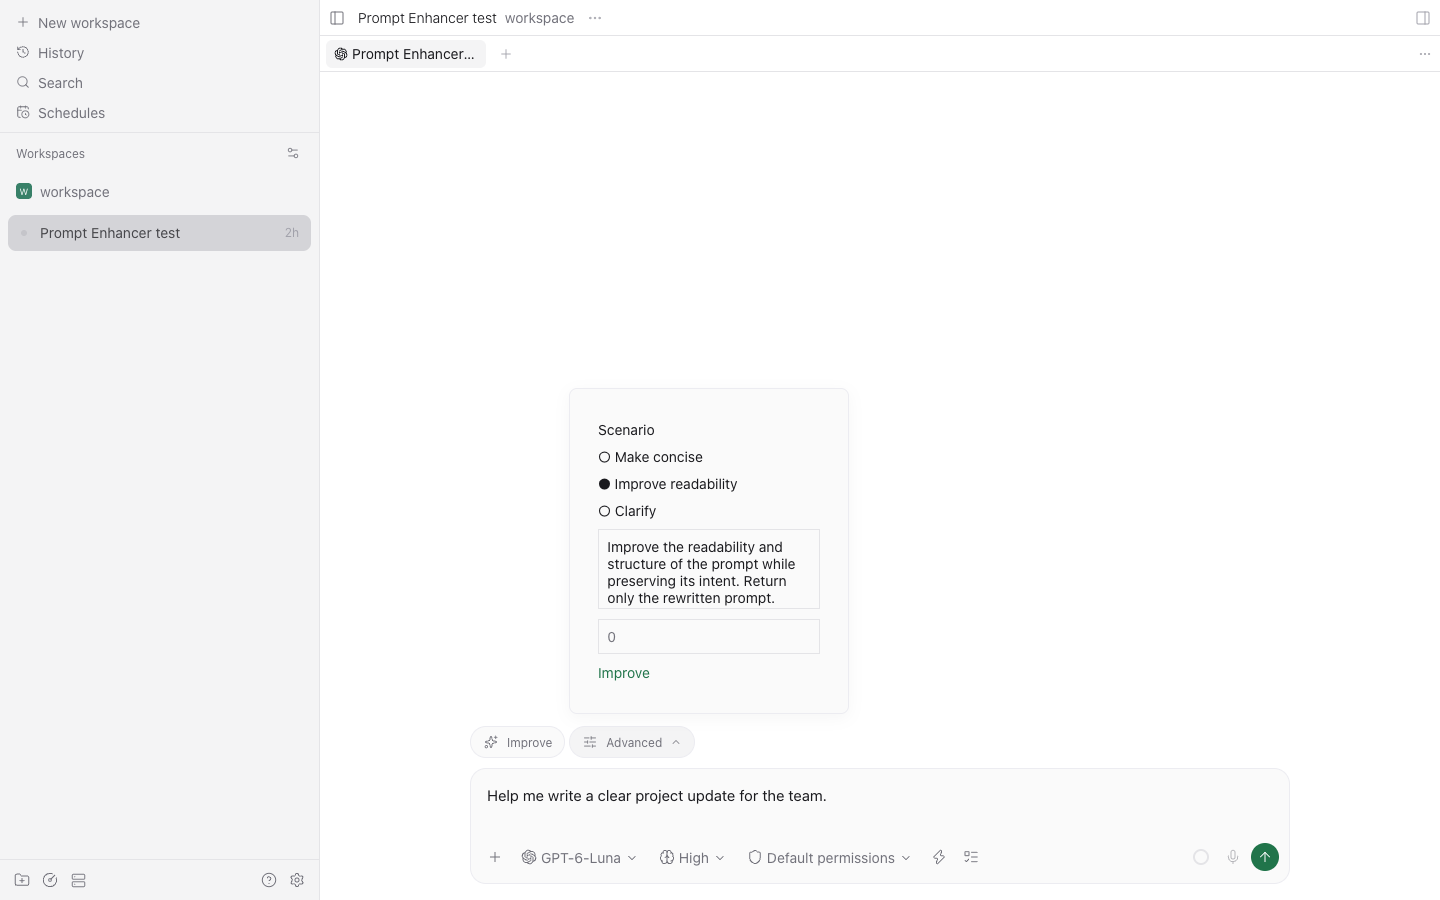
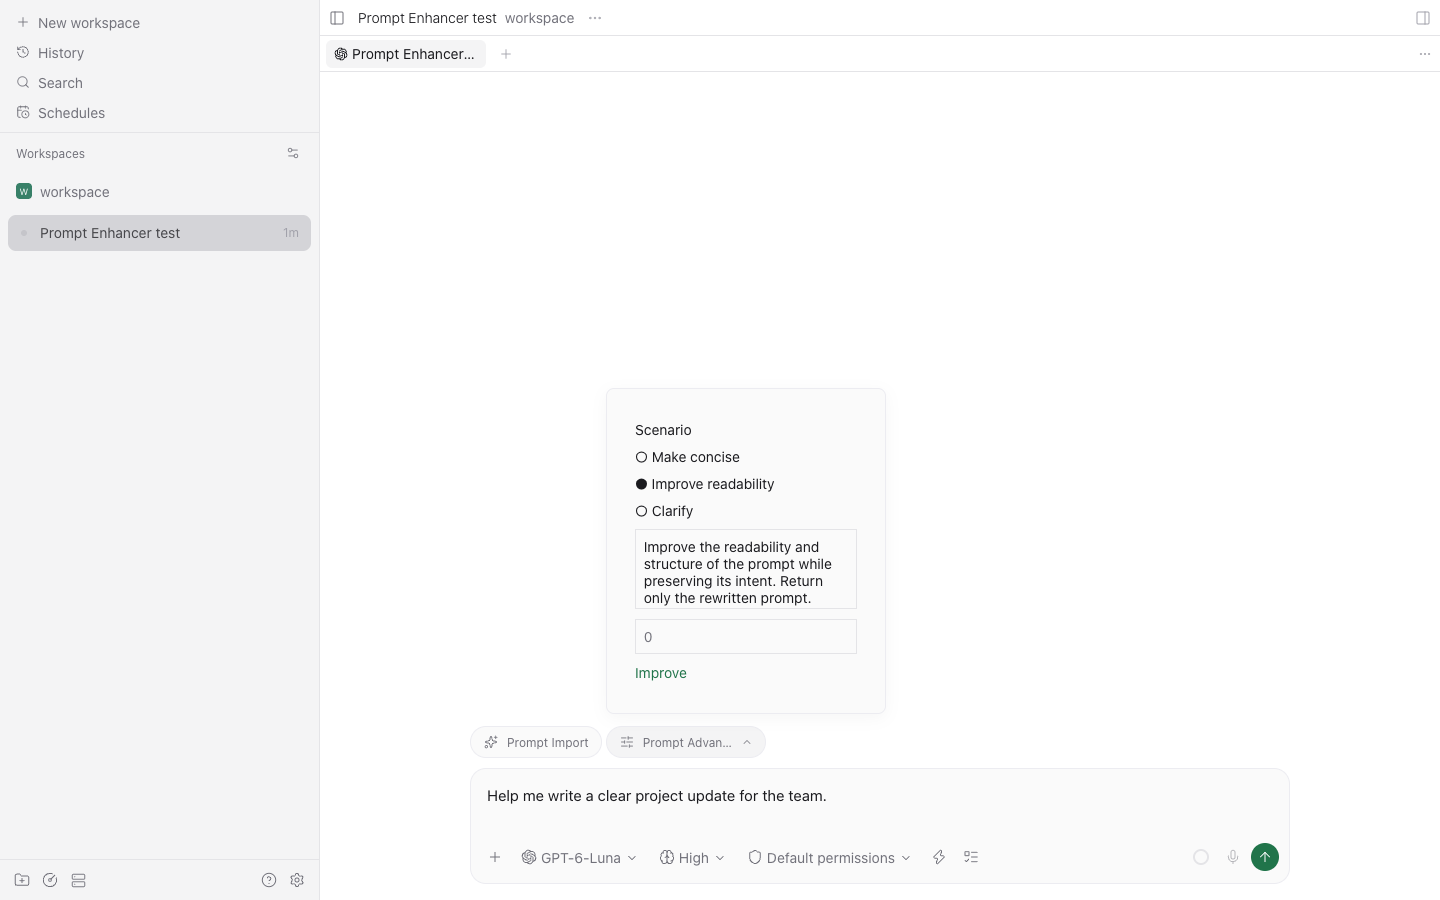
Allow composer button names to be configured

Changed region(s): [[0.4062, 0.4667, 0.5938, 0.6844], [0.3438, 0.8089, 0.5, 0.84], [0.4375, 0.7467, 0.4688, 0.7778]]

diff --git a/client/actions.tsx b/client/actions.tsx
@@ -4,34 +4,37 @@ import { useSettings, useSubscription, type PluginButtonContentProps, type Plugi
 import { TextInput } from "@getpaseo/plugin/client/ui";
 import { settingsRpc } from "@getpaseo/plugin";
 import { enhancementStatus, startEnhancement } from "../shared/enhance";
-import { builtInScenarios, preferences, settingsSchema, visibilityChanges } from "../shared/settings";
+import { builtInScenarios, preferences, settingsSchema, visibilityChanges, type Presentation } from "../shared/settings";
 import { applyImprovement } from "./draft";
 import { createVisibilityState } from "./visibility";
 
 interface AgentActions { quick: PluginButtonRegistration; advanced: PluginButtonRegistration; undo: PluginButtonRegistration }
 
-export function registerActions(client: PluginClientContext): { cleanup(): void; setAdvancedVisibility(visible: boolean): void } {
+export function registerActions(client: PluginClientContext): { cleanup(): void; setPresentation(value: Presentation): void } {
   const registrations = new Map<string, AgentActions>();
   const busy = new Set<string>();
   const previous = new Map<string, string>();
   const lifetime = new AbortController();
-  let showAdvanced = false;
+  let presentation: Presentation = { showAdvanced: false, quickLabel: "Prompt Import", advancedLabel: "Prompt Advance" };
 
-  const visibility = createVisibilityState((visible) => {
-    showAdvanced = visible;
-    for (const registration of registrations.values()) registration.advanced.update({ visible });
+  const visibility = createVisibilityState<Presentation>((value) => {
+    presentation = value;
+    for (const registration of registrations.values()) {
+      registration.quick.update({ title: value.quickLabel, label: value.quickLabel });
+      registration.advanced.update({ title: value.advancedLabel, label: value.advancedLabel, visible: value.showAdvanced });
+    }
   });
-  const setAdvancedVisibility = visibility.update;
+  const setPresentation = visibility.update;
 
   function SettingsBridge() {
-    useSubscription(visibilityChanges, {}, ({ showAdvanced: visible }) => setAdvancedVisibility(visible));
+    useSubscription(visibilityChanges, {}, setPresentation);
     return null;
   }
   const removeSettingsBridge = client.addComposerItem({ id: "settings-bridge", Component: SettingsBridge });
   void visibility.loadInitial(async () => {
     const result = await client.rpc(settingsRpc(preferences.id).read, {});
     if (result.status !== "ready") throw new Error(result.error);
-    return settingsSchema.parse(result.values).showAdvanced;
+    return settingsSchema.parse(result.values);
   }).catch((error: unknown) => { if (!lifetime.signal.aborted) console.error("Prompt Enhancer settings unavailable", error); });
 
   async function run(workspaceId: string, agentId: string, instruction: string, historyLimit: number, includeTools: boolean): Promise<void> {
@@ -110,8 +113,8 @@ export function registerActions(client: PluginClientContext): { cleanup(): void;
   function register(agent: { id: string; workspaceId?: string | null }): void {
     if (!agent.workspaceId || lifetime.signal.aborted || registrations.has(agent.id)) return;
     const { id: agentId, workspaceId } = agent;
-    const quickButton = client.addComposerPill({ id: "quick", agentId, workspaceId, button: { title: "Improve prompt", label: "Improve", icon: "Sparkles", behavior: { kind: "action", onPress: () => quick(workspaceId, agentId) } } });
-    const advanced = client.addComposerPill({ id: "advanced", agentId, workspaceId, button: { title: "Advanced prompt improvement", label: "Advanced", icon: "SlidersHorizontal", visible: showAdvanced, behavior: { kind: "popover", Content: Advanced } } });
+    const quickButton = client.addComposerPill({ id: "quick", agentId, workspaceId, button: { title: presentation.quickLabel, label: presentation.quickLabel, icon: "Sparkles", behavior: { kind: "action", onPress: () => quick(workspaceId, agentId) } } });
+    const advanced = client.addComposerPill({ id: "advanced", agentId, workspaceId, button: { title: presentation.advancedLabel, label: presentation.advancedLabel, icon: "SlidersHorizontal", visible: presentation.showAdvanced, behavior: { kind: "popover", Content: Advanced } } });
     const undo = client.addComposerPill({ id: "undo", agentId, workspaceId, button: { title: "Undo prompt improvement", label: "Undo", icon: "Undo2", visible: false, behavior: { kind: "action", onPress() { const current = client.composers({ agentId })[0]; const text = previous.get(agentId); if (current && text !== undefined) { current.setPrompt(text); previous.delete(agentId); registrations.get(agentId)?.undo.update({ visible: false }); } } } } });
     registrations.set(agentId, { quick: quickButton, advanced, undo });
   }
@@ -122,7 +125,7 @@ export function registerActions(client: PluginClientContext): { cleanup(): void;
     });
   }).catch((error: unknown) => { if (!lifetime.signal.aborted) console.error("Prompt Enhancer agent observation failed", error); });
   return {
-    setAdvancedVisibility,
+    setPresentation,
     cleanup() { lifetime.abort(); visibility.close(); removeSettingsBridge(); for (const id of registrations.keys()) remove(id); },
   };
 }

diff --git a/client/settings.tsx b/client/settings.tsx
@@ -2,9 +2,9 @@ import { useEffect, useState } from "react";
 import { Text, TextInput, View } from "react-native";
 import { usePaseo, useSettings, type PluginSurfaceProps } from "@getpaseo/plugin/client";
 import { SettingsAction, SettingsCard, SettingsInput, SettingsSection, SettingsSelect, SettingsSwitch } from "@getpaseo/plugin/client/ui";
-import { builtInScenarios, preferences, type Preferences } from "../shared/settings";
+import { builtInScenarios, preferences, settingsSchema, type Preferences, type Presentation } from "../shared/settings";
 
-export function Settings({ theme, onSaved }: PluginSurfaceProps & { onSaved(showAdvanced: boolean): void }) {
+export function Settings({ theme, onSaved }: PluginSurfaceProps & { onSaved(value: Presentation): void }) {
   const settings = useSettings(preferences);
   const paseo = usePaseo();
   const [draft, setDraft] = useState<Preferences | null>(null);
@@ -26,7 +26,7 @@ export function Settings({ theme, onSaved }: PluginSurfaceProps & { onSaved(show
   const scenarios = [...builtInScenarios, ...draft.customScenarios];
   const models = catalog.find((entry) => entry.provider === draft.provider)?.models ?? [];
   const save = async () => {
-    if (await settings.save(draft, revision)) { onSaved(draft.showAdvanced); setDraft(null); setError(""); }
+    if (await settings.save(draft, revision)) { onSaved(settingsSchema.parse(draft)); setDraft(null); setError(""); }
     else setError("Could not save settings. Reload and review your changes if another client changed them.");
   };
   return <View style={{ gap: 16 }}>
@@ -37,6 +37,10 @@ export function Settings({ theme, onSaved }: PluginSurfaceProps & { onSaved(show
       <SettingsInput label="History limit in characters" initialValue={String(draft.historyLimit)} onChangeText={(value) => update({ historyLimit: value.trim() === "" ? 0 : Number(value) })} />
       <SettingsSwitch label="Include tool calls and results" value={draft.includeTools} onValueChange={(includeTools) => update({ includeTools })} />
       <SettingsSwitch label="Show advanced action" value={draft.showAdvanced} onValueChange={(showAdvanced) => update({ showAdvanced })} />
+    </SettingsCard></SettingsSection>
+    <SettingsSection title="Composer buttons"><SettingsCard>
+      <SettingsInput label="Quick button name" initialValue={draft.quickLabel} onChangeText={(quickLabel) => update({ quickLabel })} />
+      <SettingsInput label="Advanced button name" initialValue={draft.advancedLabel} onChangeText={(advancedLabel) => update({ advancedLabel })} />
     </SettingsCard></SettingsSection>
     <SettingsSection title="Custom scenarios"><SettingsCard>
       {draft.customScenarios.map((scenario, index) => <View key={scenario.id} style={{ gap: 8, padding: 12 }}>

diff --git a/index.server.ts b/index.server.ts
@@ -2,7 +2,7 @@ import type { PluginServerContext } from "@getpaseo/plugin/server";
 import { randomUUID } from "node:crypto";
 import type { z } from "zod";
 import { startEnhancement, enhancementStatus } from "./shared/enhance";
-import { preferences, visibilityChanges } from "./shared/settings";
+import { preferences, visibilityChanges, type Presentation } from "./shared/settings";
 import { runEnhancement } from "./server/enhance";
 
 export default function contribute(server: PluginServerContext): () => void {
@@ -13,17 +13,17 @@ export default function contribute(server: PluginServerContext): () => void {
   let active = true;
   server.handle(visibilityChanges, (_input, { push, signal }) => {
     let receivedChange = false;
-    const send = (visible: boolean) => {
-      void push({ showAdvanced: visible }).catch((error: unknown) => {
+    const send = ({ showAdvanced, quickLabel, advancedLabel }: Presentation) => {
+      void push({ showAdvanced, quickLabel, advancedLabel }).catch((error: unknown) => {
         if (!signal.aborted) console.error("Prompt Enhancer visibility update failed", error);
       });
     };
     const unsubscribe = settings.subscribe((state) => {
-      if (state.status === "ready") { receivedChange = true; send(state.values.showAdvanced); }
+      if (state.status === "ready") { receivedChange = true; send(state.values); }
     });
     if (signal.aborted) { unsubscribe(); return; }
     signal.addEventListener("abort", unsubscribe, { once: true });
-    void settings.read().then((state) => { if (!signal.aborted && !receivedChange && state.status === "ready") send(state.values.showAdvanced); }).catch((error: unknown) => {
+    void settings.read().then((state) => { if (!signal.aborted && !receivedChange && state.status === "ready") send(state.values); }).catch((error: unknown) => {
       if (!signal.aborted) console.error("Prompt Enhancer settings read failed", error);
     });
   });

diff --git a/tests/server-lifecycle.test.ts b/tests/server-lifecycle.test.ts
@@ -45,11 +45,11 @@ test("visibility subscribers receive the saved value and changes, then unsubscri
   const events: unknown[] = [];
   handler({}, { signal: controller.signal, push: async (event: unknown) => { events.push(event); } });
   await new Promise<void>((resolve) => setImmediate(resolve));
-  assert.deepEqual(events, [{ showAdvanced: false }]);
+  assert.deepEqual(events, [{ showAdvanced: false, quickLabel: "Prompt Import", advancedLabel: "Prompt Advance" }]);
   assert.ok(listener);
-  listener({ status: "ready", values: settingsSchema.parse({ showAdvanced: true }) });
+  listener({ status: "ready", values: settingsSchema.parse({ showAdvanced: true, quickLabel: "Rewrite", advancedLabel: "Options" }) });
   await new Promise<void>((resolve) => setImmediate(resolve));
-  assert.deepEqual(events, [{ showAdvanced: false }, { showAdvanced: true }]);
+  assert.deepEqual(events, [{ showAdvanced: false, quickLabel: "Prompt Import", advancedLabel: "Prompt Advance" }, { showAdvanced: true, quickLabel: "Rewrite", advancedLabel: "Options" }]);
   controller.abort();
   assert.equal(released, true);
   cleanup();
@@ -75,7 +75,7 @@ test("an older initial settings read does not overwrite a newer notification", a
   listener({ status: "ready", values: settingsSchema.parse({ showAdvanced: true }) });
   finishRead({ status: "ready", values: settingsSchema.parse({ showAdvanced: false }) });
   await new Promise<void>((resolve) => setImmediate(resolve));
-  assert.deepEqual(events, [{ showAdvanced: true }]);
+  assert.deepEqual(events, [{ showAdvanced: true, quickLabel: "Prompt Import", advancedLabel: "Prompt Advance" }]);
   controller.abort();
   cleanup();
 });

diff --git a/tests/settings.test.ts b/tests/settings.test.ts
@@ -7,11 +7,16 @@ test("settings default to no history and a built-in scenario", () => {
   assert.equal(settings.historyLimit, 0);
   assert.equal(settings.defaultScenario, "readability");
   assert.equal(settings.includeTools, false);
+  assert.equal(settings.quickLabel, "Prompt Import");
+  assert.equal(settings.advancedLabel, "Prompt Advance");
 });
 
 test("validates limits, scenario identity and custom instructions", () => {
   assert.equal(settingsSchema.safeParse({ historyLimit: -1 }).success, false);
   assert.equal(settingsSchema.safeParse({ historyLimit: 1.5 }).success, false);
+  assert.equal(settingsSchema.safeParse({ quickLabel: "  " }).success, false);
+  assert.equal(settingsSchema.safeParse({ advancedLabel: "" }).success, false);
+  assert.equal(settingsSchema.parse({ quickLabel: "  Rewrite  " }).quickLabel, "Rewrite");
   assert.equal(settingsSchema.safeParse({ defaultScenario: "missing" }).success, false);
   const custom = { id: "custom-example", name: "Example", instruction: "Rewrite." };
   const parsed = settingsSchema.parse({ customScenarios: [custom], defaultScenario: custom.id });

diff --git a/tests/visibility.test.ts b/tests/visibility.test.ts
@@ -6,7 +6,7 @@ test("a late initial read cannot override a newer visibility change", async () =
   let finish: ((value: boolean) => void) | undefined;
   const read = new Promise<boolean>((resolve) => { finish = resolve; });
   const values: boolean[] = [];
-  const state = createVisibilityState((visible) => values.push(visible));
+  const state = createVisibilityState<boolean>((visible) => values.push(visible));
   const loading = state.loadInitial(() => read);
   state.update(false);
   assert.ok(finish);
@@ -19,7 +19,7 @@ test("a late initial read has no effect after cleanup", async () => {
   let finish: ((value: boolean) => void) | undefined;
   const read = new Promise<boolean>((resolve) => { finish = resolve; });
   const values: boolean[] = [];
-  const state = createVisibilityState((visible) => values.push(visible));
+  const state = createVisibilityState<boolean>((visible) => values.push(visible));
   const loading = state.loadInitial(() => read);
   state.close();
   assert.ok(finish);

diff --git a/shared/settings.ts b/shared/settings.ts
@@ -21,6 +21,8 @@ export const settingsSchema = z.object({
   historyLimit: z.number().int().nonnegative().safe().default(0),
   includeTools: z.boolean().default(false),
   showAdvanced: z.boolean().default(true),
+  quickLabel: z.string().trim().min(1).default("Prompt Import"),
+  advancedLabel: z.string().trim().min(1).default("Prompt Advance"),
 }).superRefine((value, context) => {
   const customIds = value.customScenarios.map((scenario) => scenario.id);
   if (new Set(customIds).size !== customIds.length) {
@@ -41,7 +43,8 @@ export const preferences = defineSettings({
 export const visibilityChanges = defineSubscription({
   name: "preferences.visibility",
   input: z.object({}),
-  event: z.object({ showAdvanced: z.boolean() }),
+  event: z.object({ showAdvanced: z.boolean(), quickLabel: z.string(), advancedLabel: z.string() }),
 });
 
 export type Preferences = z.output<typeof settingsSchema>;
+export type Presentation = Pick<Preferences, "showAdvanced" | "quickLabel" | "advancedLabel">;

diff --git a/client/visibility.ts b/client/visibility.ts
@@ -1,15 +1,15 @@
-export function createVisibilityState(onChange: (visible: boolean) => void) {
+export function createVisibilityState<T>(onChange: (value: T) => void) {
   let version = 0;
   let active = true;
-  function update(visible: boolean): void {
+  function update(value: T): void {
     if (!active) return;
     version += 1;
-    onChange(visible);
+    onChange(value);
   }
-  async function loadInitial(read: () => Promise<boolean>): Promise<void> {
+  async function loadInitial(read: () => Promise<T>): Promise<void> {
     const startedAt = version;
-    const visible = await read();
-    if (active && version === startedAt) update(visible);
+    const value = await read();
+    if (active && version === startedAt) update(value);
   }
   return { update, loadInitial, close() { active = false; } };
 }

diff --git a/index.client.tsx b/index.client.tsx
@@ -4,7 +4,7 @@ import { Settings } from "./client/settings";
 
 export default function contribute(client: PluginClientContext) {
   const actions = registerActions(client);
-  const SettingsScreen = (props: PluginSurfaceProps) => <Settings {...props} onSaved={actions.setAdvancedVisibility} />;
+  const SettingsScreen = (props: PluginSurfaceProps) => <Settings {...props} onSaved={actions.setPresentation} />;
   const removeSettings = client.addSettingsScreen({ id: "settings", title: "Prompt Enhancer", icon: "Sparkles", Component: SettingsScreen });
   return () => { actions.cleanup(); removeSettings(); };
 }

diff --git a/OVERVIEW.md b/OVERVIEW.md
@@ -2,7 +2,7 @@
 
 Prompt Enhancer rewrites a draft in an existing Paseo agent's composer. Quick improvement uses your saved defaults. Advanced lets you choose a scenario, edit its instruction and set a history limit for one request. You can undo the last replacement; the plugin does not send the rewritten draft to the conversation.
 
-Choose a provider and model configured on the selected host in the plugin settings. The built-in scenarios make text concise, improve readability or clarify it. You can add custom scenarios, choose a default and hide the Advanced action.
+Choose a provider and model configured on the selected host in the plugin settings. The built-in scenarios make text concise, improve readability or clarify it. You can add custom scenarios, choose a default, rename the two composer buttons and hide the Advanced action. Their default names are “Prompt Import” and “Prompt Advance”.
 
 The history limit is measured in characters and defaults to zero. You can include recent user and assistant messages and optionally tool calls and results. The selected provider receives the draft, instruction and selected history. The plugin creates a background agent using that provider's normal permissions; it does not automatically approve permission requests. Agent and provider history may retain this content after the helper is archived.
 

diff --git a/README.md b/README.md
@@ -2,7 +2,7 @@
 
 Prompt Enhancer rewrites a draft in an existing Paseo agent's composer using a provider and model configured on the selected host. Quick uses saved settings; Advanced lets you select a scenario, edit its instruction and override the history character limit. Undo restores the text present immediately before replacement. The rewritten draft is not sent automatically.
 
-In the plugin settings, select a provider and model, a default scenario and optionally custom scenarios. The history limit defaults to zero; a positive limit includes recent conversation text and can optionally include tool calls and results. Advanced visibility is configurable.
+In the plugin settings, select a provider and model, a default scenario and optionally custom scenarios. The button names are configurable and default to “Prompt Import” and “Prompt Advance”. The history limit defaults to zero; a positive limit includes recent conversation text and can optionally include tool calls and results. Advanced visibility is configurable.
 
 The provider receives the draft, instruction and selected history. Enhancement creates a background agent with the provider's normal permissions. The plugin does not automatically approve permission requests. Archiving the helper does not delete its history, and the provider may retain the request.
 

diff --git a/docs/plans/2026-11-12-design-changes.md b/docs/plans/2026-11-12-design-changes.md
@@ -7,3 +7,4 @@ Baseline: approved design at commit `5145aba` and plan at commit `447a001`.
 - Keep the agreed prompt scenarios, context limit, replacement, Undo, host settings, error behavior and separate-daemon end-to-end requirement.
 - Split the host request into start and status calls so provider work can exceed the SDK's 60-second ordinary RPC timeout. The helper is archived after its result, error, permission request or timeout; restart and disconnect recovery still require functional verification.
 - No change to publication or deployment boundaries. Desktop, mobile, remote and isolated-daemon acceptance remain distinct from local unit checks.
+- Composer button names are configurable in host settings. Defaults are `Prompt Import` for Quick and `Prompt Advance` for Advanced; use recognizable sparkle and sliders icons.
